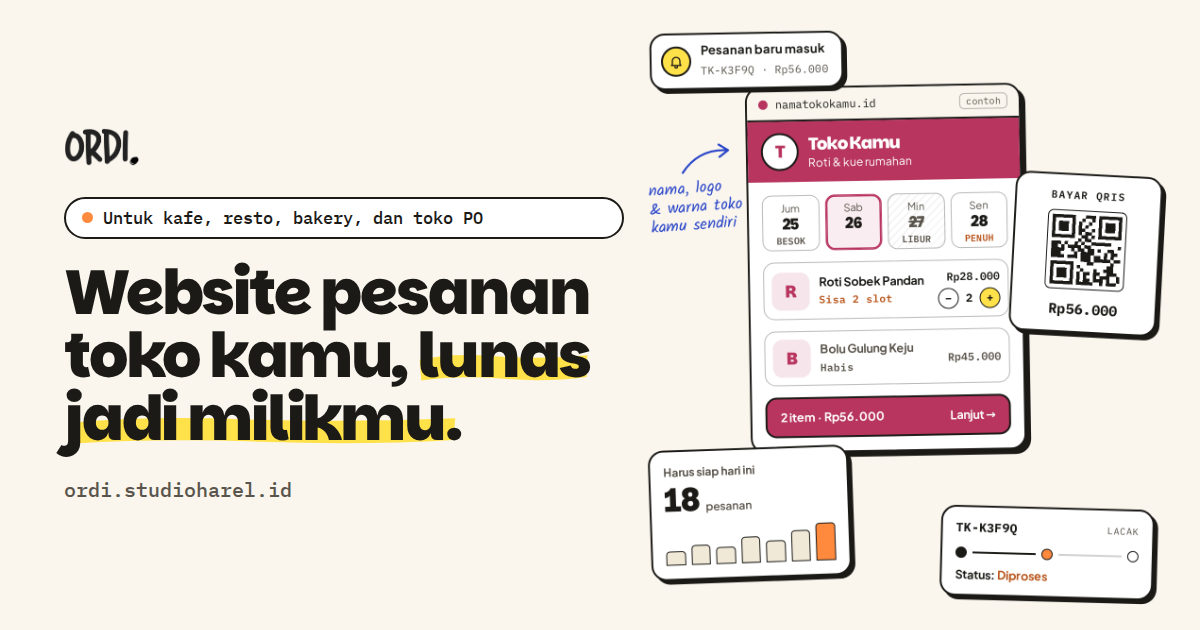
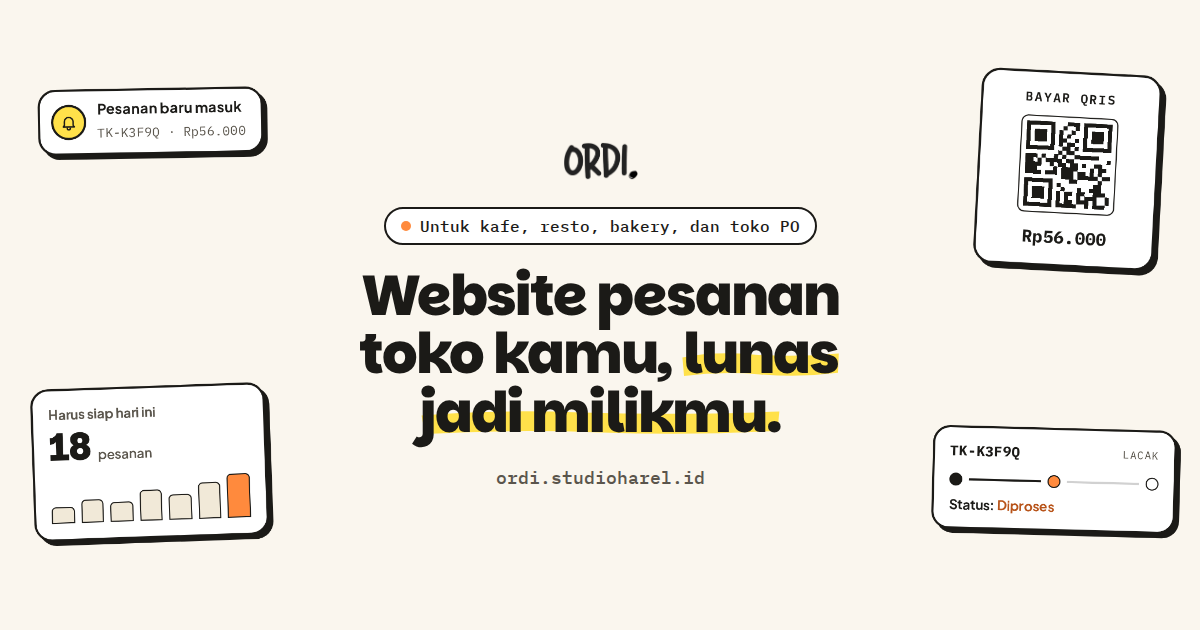
Make the link preview hold up in WhatsApp and Threads blasts
WhatsApp crops a center square for small link thumbnails (the compose
box, WhatsApp Web), which cut the old left-aligned headline down to
"e pesanan / mu, lunas". The OG image is now center-safe: logo, audience
chip and headline fill the middle 630x630, and the hero's dashboard
cards sit only in the side strips for the wide preview. It is ~85 KB,
well under the size WhatsApp is picky about.

The image URL carries ?v=2 so previews cached from the old image get
refetched, and the meta adds og:site_name, og:locale, og:image:type and
alt text for the image.

Claude-Session: https://claude.ai/code/session_01PLHxu7JyHSRdg7woGsuQoT

Changed region(s): [[0.0308, 0.0302, 0.9867, 0.9651], [0.0308, 0.1206, 0.2467, 0.2714]]

diff --git a/index.html b/index.html
@@ -12,17 +12,23 @@
     <title>Ordi · Website Pesanan Milik Toko Kamu | Studio Harel</title>
 
     <meta property="og:type" content="website" />
+    <meta property="og:site_name" content="Ordi" />
+    <meta property="og:locale" content="id_ID" />
     <meta property="og:url" content="https://ordi.studioharel.id/" />
     <meta property="og:title" content="Ordi · Website pesanan toko kamu, lunas jadi milikmu" />
     <meta property="og:description" content="Pelanggan pilih tanggal, pesan, bayar QRIS, dan lacak pesanannya sendiri. Dibangun khusus buat toko kamu, sekali bayar, atas nama bisnis kamu." />
-    <meta property="og:image" content="https://ordi.studioharel.id/og-image.png" />
+    <!-- bump ?v= whenever og-image.png changes: WhatsApp and Threads cache previews by URL -->
+    <meta property="og:image" content="https://ordi.studioharel.id/og-image.png?v=2" />
+    <meta property="og:image:type" content="image/png" />
     <meta property="og:image:width" content="1200" />
     <meta property="og:image:height" content="630" />
+    <meta property="og:image:alt" content="Ordi: website pesanan toko kamu, lunas jadi milikmu. Untuk kafe, resto, bakery, dan toko PO." />
 
     <meta name="twitter:card" content="summary_large_image" />
     <meta name="twitter:title" content="Ordi · Website pesanan toko kamu, lunas jadi milikmu" />
     <meta name="twitter:description" content="Dibangun khusus buat toko kamu, sekali bayar, atas nama bisnis kamu." />
-    <meta name="twitter:image" content="https://ordi.studioharel.id/og-image.png" />
+    <meta name="twitter:image" content="https://ordi.studioharel.id/og-image.png?v=2" />
+    <meta name="twitter:image:alt" content="Ordi: website pesanan toko kamu, lunas jadi milikmu. Untuk kafe, resto, bakery, dan toko PO." />
     <link rel="preconnect" href="https://fonts.googleapis.com" />
     <link rel="preconnect" href="https://fonts.gstatic.com" crossorigin />
     <link

diff --git a/CLAUDE.md b/CLAUDE.md
@@ -197,10 +197,17 @@ header / hero / final-cta), `klik_tier` (`tier`), `consent_choice`.
 - `.node-version` pins Node for Cloudflare (Vite 8 needs `^20.19.0 ||
   >=22.12.0`); Cloudflare ignores `package.json` `engines`.
 - `public/_redirects` holds the /wa, /threads, /instagram UTM short links.
-- `public/og-image.png` (1200×630) is the headline plus a capture of the
-  real hero card cluster, with the example store swapped for placeholders
-  ("Toko Kamu", `namatokokamu.id`) so no example store appears in link
-  previews. Regenerate it when the hero headline or cluster changes.
+- `public/og-image.png` (1200×630, ~85 KB) is the link preview for WhatsApp
+  and Threads blasts (`/wa`, `/threads` short links in `_redirects`). It's
+  **center-safe**: logo, audience chip and the headline sit in the middle
+  630×630, because WhatsApp crops a center square for small thumbnails (the
+  compose box, WhatsApp Web). The four hero dashboard cards (captured from
+  the real hero, codes swapped to `TK-`) sit in the side strips only, for
+  the wide preview. Keep it under ~300 KB. When it changes, bump the `?v=`
+  on `og:image`/`twitter:image` in `index.html`, since WhatsApp and Threads
+  cache by URL. `og:image` is absolute to ordi.studioharel.id, so a branch
+  preview link shows whatever image production serves until this version
+  is live.
 - This sandbox's network policy blocks most external domains, and Chromium
   here doesn't trust the proxy CA, so Google Fonts don't load in local
   screenshots. For verification, download the font CSS/woff2 with `curl`
